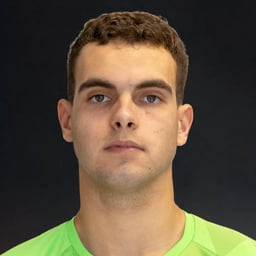
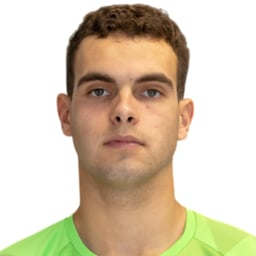
Igrači Mornara: fotografije glava sa novog sajta fkmornarbar.netlify.app
Vraća prethodni komit ee9b1ca (slike sa starog sajta fkmornarbar.me).

Claude-Session: https://claude.ai/code/session_012uoAA5XpUnRWzRXtr7B8yk

diff --git a/index.html b/index.html
@@ -1306,34 +1306,31 @@ async function pushFavoritesToRemote(){
 const PLAYERS=[
 {name:'Radoš Dubljević',club:'Mornar',pos:'GK',photo:'https://fscg.me/files/images_comet/bf/5/_resized/bf5859f72b8cfb37ce428dda14270a8e8c99ae30_38_40_cut.png'},
 {name:'Benjamin Krijestarac',club:'Mornar',pos:'GK',photo:'img/igraci/mornar/benjamin-krijestarac.jpg'},
-{name:'Stefan Popović',club:'Mornar',pos:'GK',photo:'img/igraci/mornar/stefan-popovic.jpg'},
+{name:'Stefan Popović',club:'Mornar',pos:'GK',photo:'https://fscg.me/files/images_comet/9b/c/_resized/9bcde15ad61ff41ee63ebb895994e7e1517328c3_38_40_cut.png'},
 {name:'Vasilije Stojanović',club:'Mornar',pos:'GK',photo:'img/igraci/mornar/vasilije-stojanovic.jpg'},
-{name:'Jovan Baošić',club:'Mornar',pos:'DEF',photo:'img/igraci/mornar/jovan-baosic.jpg'},
-{name:'Damjan Dakić',club:'Mornar',pos:'DEF',photo:'https://fscg.me/files/images_comet/c2/e/_resized/c2ecb4ac845fa29f3c6ad4a861762184a5ff1c0b_38_40_cut.png'},
+{name:'Jovan Baošić',club:'Mornar',pos:'DEF',photo:'https://fscg.me/files/images_comet/28/b/_resized/28b211083822b01035c53487351eb036543ce1cd_38_40_cut.png'},
+{name:'Damjan Dakić',club:'Mornar',pos:'DEF',photo:'img/igraci/mornar/damjan-dakic.jpg'},
 {name:'Ilija Martinović',club:'Mornar',pos:'DEF',photo:'img/igraci/mornar/ilija-martinovic.jpg'},
 {name:'Filip Mitrović',club:'Mornar',pos:'DEF',photo:'img/igraci/mornar/filip-mitrovic.jpg'},
 {name:'Nikola Stijepović',club:'Mornar',pos:'DEF',photo:'img/igraci/mornar/nikola-stijepovic.jpg'},
-{name:'Marko Vučić',club:'Mornar',pos:'DEF',photo:'img/igraci/mornar/marko-vucic.jpg'},
-{name:'Jovan Dašić',club:'Mornar',pos:'MID',photo:'img/igraci/mornar/jovan-dasic.jpg'},
+{name:'Jovan Dašić',club:'Mornar',pos:'MID',photo:'https://fscg.me/files/images_comet/2c/1/_resized/2c189181b17077327294f0768f8a93dba0a7ad96_38_40_cut.png'},
 {name:'Vukas Dragović',club:'Mornar',pos:'MID',photo:'img/igraci/mornar/vukas-dragovic.jpg'},
 {name:'Andrija Kaluđerović',club:'Mornar',pos:'MID',photo:'img/igraci/mornar/andrija-kaludjerovic.jpg'},
 {name:'Velimir Ljutica',club:'Mornar',pos:'MID',photo:'img/igraci/mornar/velimir-ljutica.jpg'},
-{name:'Demir Škrijelj',club:'Mornar',pos:'MID',photo:'https://fscg.me/files/images_comet/a2/d/_resized/a2d9c87124a2d3c7c044c730b3823d1958bd37cc_38_40_cut.png'},
+{name:'Demir Škrijelj',club:'Mornar',pos:'MID',photo:'img/igraci/mornar/demir-skrijelj.jpg'},
 {name:'Petar Vukčević',club:'Mornar',pos:'MID',photo:'img/igraci/mornar/petar-vukcevic.jpg'},
-{name:'Darko Zorić',club:'Mornar',pos:'MID',photo:'img/igraci/mornar/darko-zoric.jpg'},
+{name:'Darko Zorić',club:'Mornar',pos:'MID',photo:'https://fscg.me/files/images_comet/53/9/_resized/5399755ef82cabff4de1058853b17d7a5a845bcc_38_40_cut.png'},
 {name:'Stefan Denković',club:'Mornar',pos:'FWD',photo:'img/igraci/mornar/stefan-denkovic.jpg'},
 {name:'Balša Dubljević',club:'Mornar',pos:'FWD',photo:'img/igraci/mornar/balsa-dubljevic.jpg'},
 {name:'Bogich Milošević',club:'Mornar',pos:'FWD',photo:'https://fscg.me/files/images_comet/e7/0/_resized/e70dfa6b02b0eb5a84f5e5c2e9bfbe2a21012cff_38_40_cut.png'},
 {name:'Matija Rovčanin',club:'Mornar',pos:'FWD',photo:'img/igraci/mornar/matija-rovcanin.jpg'},
-{name:'Nikola Vujnović',club:'Mornar',pos:'FWD',photo:'https://fscg.me/files/images_comet/02/7/_resized/0272715ed4bf999f47954b934212b1db6c4fce76_38_40_cut.png'},
+{name:'Nikola Vujnović',club:'Mornar',pos:'FWD',photo:'img/igraci/mornar/nikola-vujnovic.jpg'},
 {name:'Lazar Zlatičanin',club:'Mornar',pos:'FWD',photo:'https://fscg.me/files/images_comet/00/5/_resized/00599441b89c05d19a92069c1599c2c5b90419d8_38_40_cut.png'},
-{name:'Balša Sekulić',club:'Mornar',pos:'FWD',photo:'img/igraci/mornar/balsa-sekulic.jpg'},
 {name:'Mitar Ćuković',club:'Mornar',pos:'PL',photo:'https://fscg.me/files/images_comet/76/6/_resized/766d9cbbcb5408902ce21bc75db41cb78a412c56_38_40_cut.png'},
 {name:'Marko Đurišić',club:'Mornar',pos:'MID',photo:'img/igraci/mornar/marko-djurisic.jpg'},
-{name:'Elmin Hajdarpašić',club:'Mornar',pos:'PL',photo:'https://fscg.me/files/images_comet/7a/7/_resized/7a756d74a67f1c5b9d9d4e9d5a0caf7b615d8f41_38_40_cut.png'},
-{name:'Abderahmane Soussi',club:'Mornar',pos:'PL',photo:'https://fscg.me/files/images_comet/2f/3/_resized/2f3b3885b9240b74dfa96b80124a511504579f03_38_40_cut.png'},
+{name:'Elmin Hajdarpašić',club:'Mornar',pos:'FWD',photo:'img/igraci/mornar/elmin-hajdarpasic.jpg'},
+{name:'Abderahmane Soussi',club:'Mornar',pos:'FWD',photo:'img/igraci/mornar/abderahmane-soussi.jpg'},
 {name:'Yann Michael Yao',club:'Mornar',pos:'FWD',photo:'img/igraci/mornar/yann-michael-yao.jpg'},
-{name:'Nikola Vuković',club:'Mornar',pos:'FWD',photo:'img/igraci/mornar/nikola-vukovic.jpg'},
 {name:'Dragan Ćetković',club:'Bokelj',pos:'GK',photo:'https://fscg.me/files/images_comet/d1/8/_resized/d181ce73468de23e0cbe5d49cf6a2f07dbb289cb_38_40_cut.png'},
 {name:'Stojan Vukčević',club:'Bokelj',pos:'GK',photo:'https://fscg.me/files/images_comet/8e/0/_resized/8e0385c1641468ce891dcc9fcae50946c98eb505_38_40_cut.png'},
 {name:'Balša Ćetković',club:'Bokelj',pos:'DEF',photo:'https://fscg.me/files/images_comet/6f/4/_resized/6f4a7f0a783b00e4016a685dd7b0b4c7d234c42c_38_40_cut.png'},
